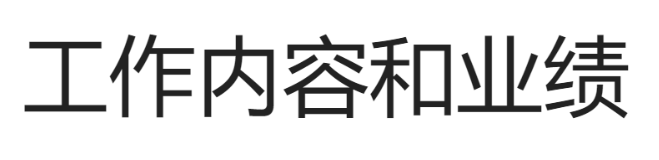
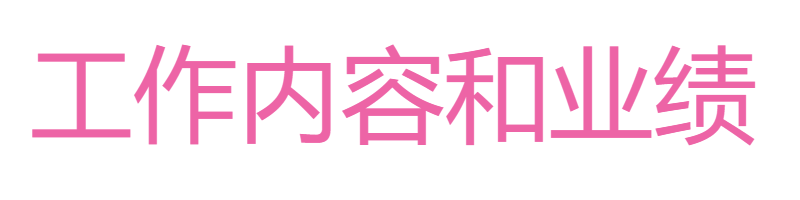
任务动画

Changed region(s): [[0.0303, 0.2188, 0.9712, 0.75]]

diff --git a/src/views/Home.vue b/src/views/Home.vue
@@ -28,15 +28,37 @@
           class="white-point"
           data-id="white-point"
           :class="{ showPoint: showPoint }"
-          data-auto-animate-delay="0.6"
+          data-auto-animate-delay="0.3"
+          data-auto-animate-easing="ease"
         ></div>
         <img
+          data-auto-animate-easing="ease"
+          data-auto-animate-duration="0.7"
           src="../assets/text.png"
           class="center-bl"
           data-id="center-text"
           style="width: 1px; height: 1px; opacity: 0"
           alt=""
         />
+        <div
+          data-auto-animate-easing="ease"
+          data-auto-animate-duration="0.2"
+          class="task-box"
+          :data-id="'task' + index"
+          v-for="(item, index) in tasks"
+          :key="index"
+          :style="{
+            width: item.width - 4 + 'px',
+            height: item.height - 4 + 'px',
+            'margin-top': -item.height / 2 + 'px',
+            'margin-left': -item.width / 2 + 'px',
+          }"
+        >
+          <div
+            class="content"
+            :style="{ transform: `rotate(${item.rotate}deg)` }"
+          ></div>
+        </div>
       </section>
       <section
         data-auto-animate
@@ -65,20 +87,41 @@
           src="../assets/text.png"
           alt=""
           data-auto-animate-delay="0.6"
+          data-auto-animate-duration="1.1"
           class="center-bl"
           data-id="center-text"
           data-auto-animate-easing="cubic-bezier(0.175, 0.885, 0.320, 1.275)"
           style="
-            width: 329.5px;
-            height: 80px;
-            margin-left: -164.75px;
-            margin-top: -40px;
+            width: 400px;
+            height: 100px;
+            margin-left: -200px;
+            margin-top: -50px;
             opacity: 1;
           "
         />
+        <div
+          class="task-box-offset"
+          :data-id="'task' + index"
+          data-auto-animate-delay="0.8"
+          data-auto-animate-duration="1.3"
+          data-auto-animate-easing="cubic-bezier(0.230, 1.000, 0.320, 1.000)"
+          v-for="(item, index) in tasks"
+          :key="index"
+          :style="{
+            width: item.width - 4 + 'px',
+            height: item.height - 4 + 'px',
+            top: item.top + 20 + 'px',
+            left: item.left - 80 + 'px',
+          }"
+        >
+          <div
+            class="content"
+            :style="{ transform: `rotate(${item.rotate}deg)` }"
+          ></div>
+        </div>
       </section>
       <section data-transition="zoom">
-        <p>工作内容和业绩</p>
+        <p style="color: rgba(237, 100, 166, 1)">工作内容和业绩</p>
       </section>
     </div>
   </div>
@@ -95,9 +138,148 @@ const scale = ref(0);
 const sectionWidth = ref(0);
 const sectionHeight = ref(0);
 
+const tasks = [
+  {
+    text: "",
+    width: 90,
+    height: 89,
+    left: 203,
+    top: 186,
+    rotate: 0,
+  },
+  {
+    text: "",
+    width: 88,
+    height: 67,
+    left: 429,
+    top: 110,
+    rotate: -10,
+  },
+  {
+    text: "",
+    width: 90,
+    height: 89,
+    left: 702,
+    top: 112,
+    rotate: -12,
+  },
+  {
+    text: "",
+    width: 90,
+    height: 89,
+    left: 921,
+    top: 418,
+    rotate: -21,
+  },
+  {
+    text: "",
+    width: 34,
+    height: 34,
+    left: 949,
+    top: 231,
+    rotate: 0,
+  },
+  {
+    text: "",
+    width: 88,
+    height: 67,
+    left: 165,
+    top: 58,
+    rotate: -32,
+  },
+  {
+    text: "",
+    width: 48,
+    height: 36,
+    left: 338,
+    top: 393,
+    rotate: 33,
+  },
+  {
+    text: "",
+    width: 89,
+    height: 67,
+    left: 139,
+    top: 310,
+    rotate: -8,
+  },
+  {
+    text: "",
+    width: 59,
+    height: 59,
+    left: 174,
+    top: 445,
+    rotate: -19,
+  },
+  {
+    text: "",
+    width: 94,
+    height: 92,
+    left: 480,
+    top: 480,
+    rotate: 4,
+  },
+  {
+    text: "",
+    width: 96,
+    height: 73,
+    left: 886,
+    top: 90,
+    rotate: 33,
+  },
+  {
+    text: "",
+    width: 137,
+    height: 135,
+    left: 709,
+    top: 448,
+    rotate: 14,
+  },
+  {
+    text: "",
+    width: 78,
+    height: 59,
+    left: 1000,
+    top: 340,
+    rotate: -8,
+  },
+  {
+    text: "",
+    width: 39,
+    height: 38,
+    left: 342,
+    top: 507,
+    rotate: -5,
+  },
+  {
+    text: "",
+    width: 58,
+    height: 57,
+    left: 549,
+    top: 21,
+    rotate: -5,
+  },
+  {
+    text: "",
+    width: 55,
+    height: 54,
+    left: 323,
+    top: 44,
+    rotate: 12,
+  },
+  {
+    text: "",
+    width: 78,
+    height: 59,
+    left: 778,
+    top: 258,
+    rotate: 10,
+  },
+];
+
 onMounted(() => {
-  let deck = new Reveal({});
-  deck.initialize();
+  let deck = new Reveal({ maxScale: 1.0 });
+  deck.initialize({ width: 960, height: 700 });
 
   deck.on("slidetransitionend", (event) => {
     if (event.indexh === 2) {
@@ -174,13 +356,37 @@ onMounted(() => {
     }
   }
   .white-point-big {
-    // margin-left: -50vw;
-    // margin-top: -50vw;
     background-color: #fff;
     position: absolute;
     border-radius: 50%;
     top: 50%;
     left: 50%;
+  }
+  .task-box {
+    position: absolute;
+    top: 50%;
+    left: 50%;
+    opacity: 0;
+    .content {
+      background-color: rgba(246, 224, 94, 1);
+      width: 100%;
+      height: 100%;
+      border-radius: 8px;
+    }
+  }
+  .task-box-offset {
+    position: absolute;
+    z-index: 101;
+    background-color: transparent;
+    top: 50%;
+    left: 50%;
+    opacity: 1;
+    .content {
+      background-color: rgba(246, 224, 94, 1);
+      width: 100%;
+      height: 100%;
+      border-radius: 8px;
+    }
   }
 }
 </style>
